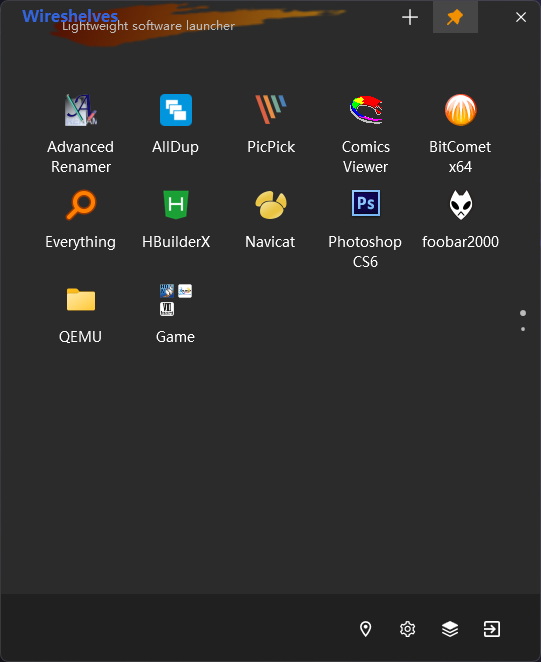
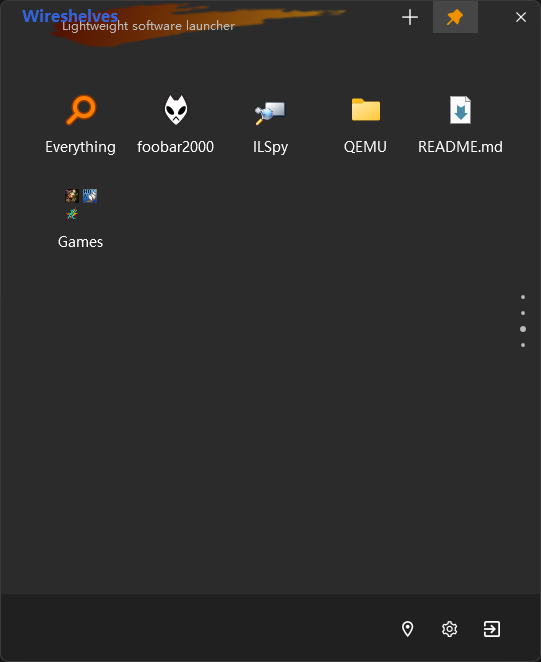
#

diff --git a/Wireshelves/MainWindow.xaml b/Wireshelves/MainWindow.xaml
@@ -235,7 +235,7 @@
                 <!--  程序托盘  -->
                 <ListBox
                     Margin="35,35,35,35"
-                    d:ItemsSource="{d:SampleData ItemCount=0}"
+                    d:ItemsSource="{d:SampleData ItemCount=25}"
                     Background="Transparent"
                     BorderThickness="0"
                     ItemsSource="{Binding CurrentAppItemPage.AppItemGroups}">
@@ -275,6 +275,9 @@
                                         <b:ChangePropertyAction PropertyName="Background" Value="{DynamicResource Alpha0CBrush}" />
                                         <b:InvokeCommandAction Command="{Binding AppItemGroupDragEnterCommand, Source={x:Static vm:MainWindowViewModel.Instance}}" PassEventArgsToCommand="True" />
                                     </b:EventTrigger>
+                                    <b:EventTrigger EventName="DragOver">
+                                        <b:InvokeCommandAction Command="{Binding AppItemGroupDragOverCommand, Source={x:Static vm:MainWindowViewModel.Instance}}" PassEventArgsToCommand="True" />
+                                    </b:EventTrigger>
                                     <b:EventTrigger EventName="DragLeave">
                                         <b:ChangePropertyAction PropertyName="Background" Value="Transparent" />
                                         <b:InvokeCommandAction Command="{Binding AppItemGroupDragLeaveCommand, Source={x:Static vm:MainWindowViewModel.Instance}}" PassEventArgsToCommand="True" />
@@ -306,7 +309,7 @@
                     </ListBox.ItemTemplate>
                 </ListBox>
                 <!--  空白页  -->
-                <Grid Visibility="{Binding CurrentAppItemPage.AppItemGroups.Count, Converter={x:Static hui:NumEqualParamToVisibilityVisibleConverter.Instance}, ConverterParameter=0}">
+                <Grid d:Visibility="Collapsed" Visibility="{Binding CurrentAppItemPage.AppItemGroups.Count, Converter={x:Static hui:NumEqualParamToVisibilityVisibleConverter.Instance}, ConverterParameter=0}">
                     <StackPanel
                         Margin="0,5,80,0"
                         HorizontalAlignment="Right"
@@ -454,7 +457,7 @@
                     </hui:DropShadowDecorator>
                 </Grid>
                 <!--  文件右键菜单  -->
-                <Grid d:Visibility="Visible" Visibility="{Binding CurrentAppItem, FallbackValue={x:Static Visibility.Visible}, TargetNullValue={x:Static Visibility.Collapsed}}">
+                <Grid d:Visibility="Collapsed" Visibility="{Binding CurrentAppItem, FallbackValue={x:Static Visibility.Visible}, TargetNullValue={x:Static Visibility.Collapsed}}">
                     <Button
                         Background="{DynamicResource SecondaryBackgroundBrush}"
                         Command="{Binding CloseItemMenuCommand}"

diff --git a/Wireshelves/ViewModels/MainWindowViewModel.cs b/Wireshelves/ViewModels/MainWindowViewModel.cs
@@ -55,7 +55,7 @@ namespace Wireshelves.ViewModels
 
         private int _shelfCol;
         private int _shelfRow;
-        private FrameworkElement? _targetElement = null;
+        private object? _dragTarget= null;
         private int _wheelTimestamp;
 
         public ICommand AddPageCommand { get; }
@@ -290,7 +290,7 @@ namespace Wireshelves.ViewModels
                     }
                 }
                 target.Background = new SolidColorBrush(Colors.Transparent);
-                _targetElement = null;
+                _dragTarget = null;
                 e.Handled = true;
             }
         }
@@ -334,16 +334,16 @@ namespace Wireshelves.ViewModels
                 if (e.Data.GetDataPresent(typeof(AppItemGroup)))
                 {
                     var droppedGroup = (AppItemGroup)e.Data.GetData(typeof(AppItemGroup));
-                    var target = (FrameworkElement)e.Source;
                     if (droppedGroup.AppItems.Count == 1)
                     {
-                        _targetElement = (FrameworkElement)e.Source;
+                        _dragTarget = (FrameworkElement)e.Source;
                         Task.Run(() =>
                         {
                             Thread.Sleep(2000);
                             Application.Current.Dispatcher.Invoke(() =>
                             {
-                                if ((FrameworkElement)e.Source == _targetElement)
+                                var target = (FrameworkElement)e.Source;
+                                if (target == _targetElement)
                                 {
                                     this.CurrentAppItemGroup = (AppItemGroup)target.DataContext;
                                 }
@@ -359,7 +359,7 @@ namespace Wireshelves.ViewModels
         {
             if (e != null)
             {
-                _targetElement = null;
+                _dragTarget = null;
             }
         }
 
